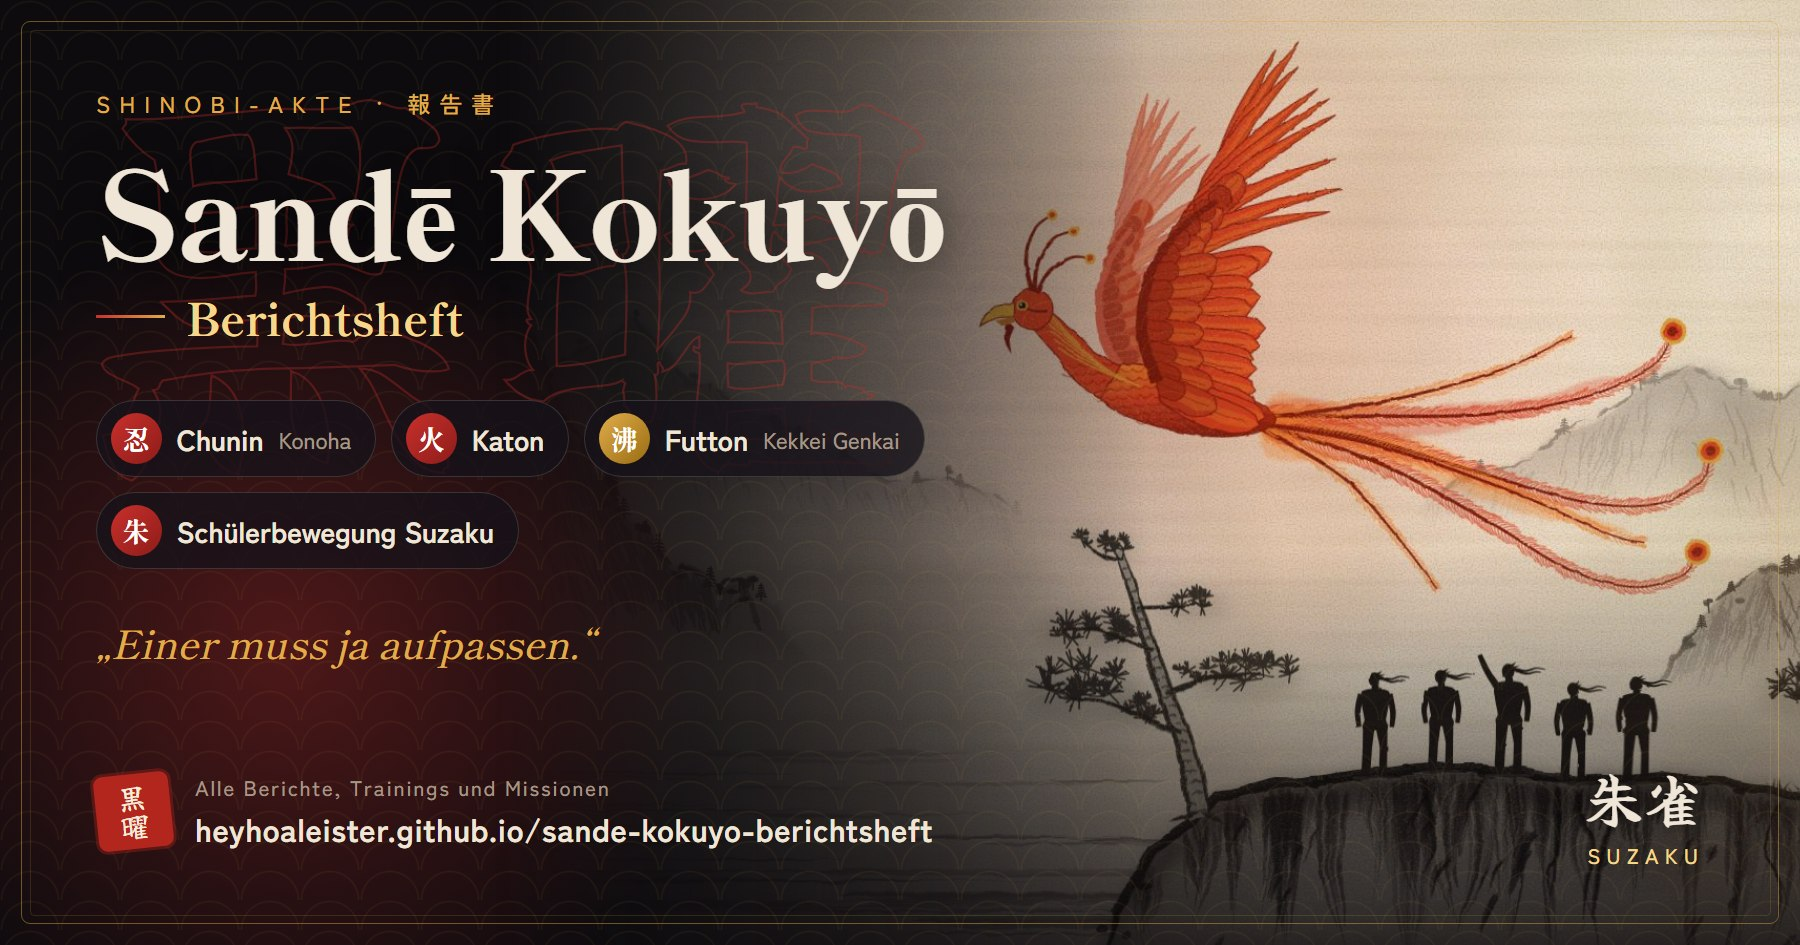
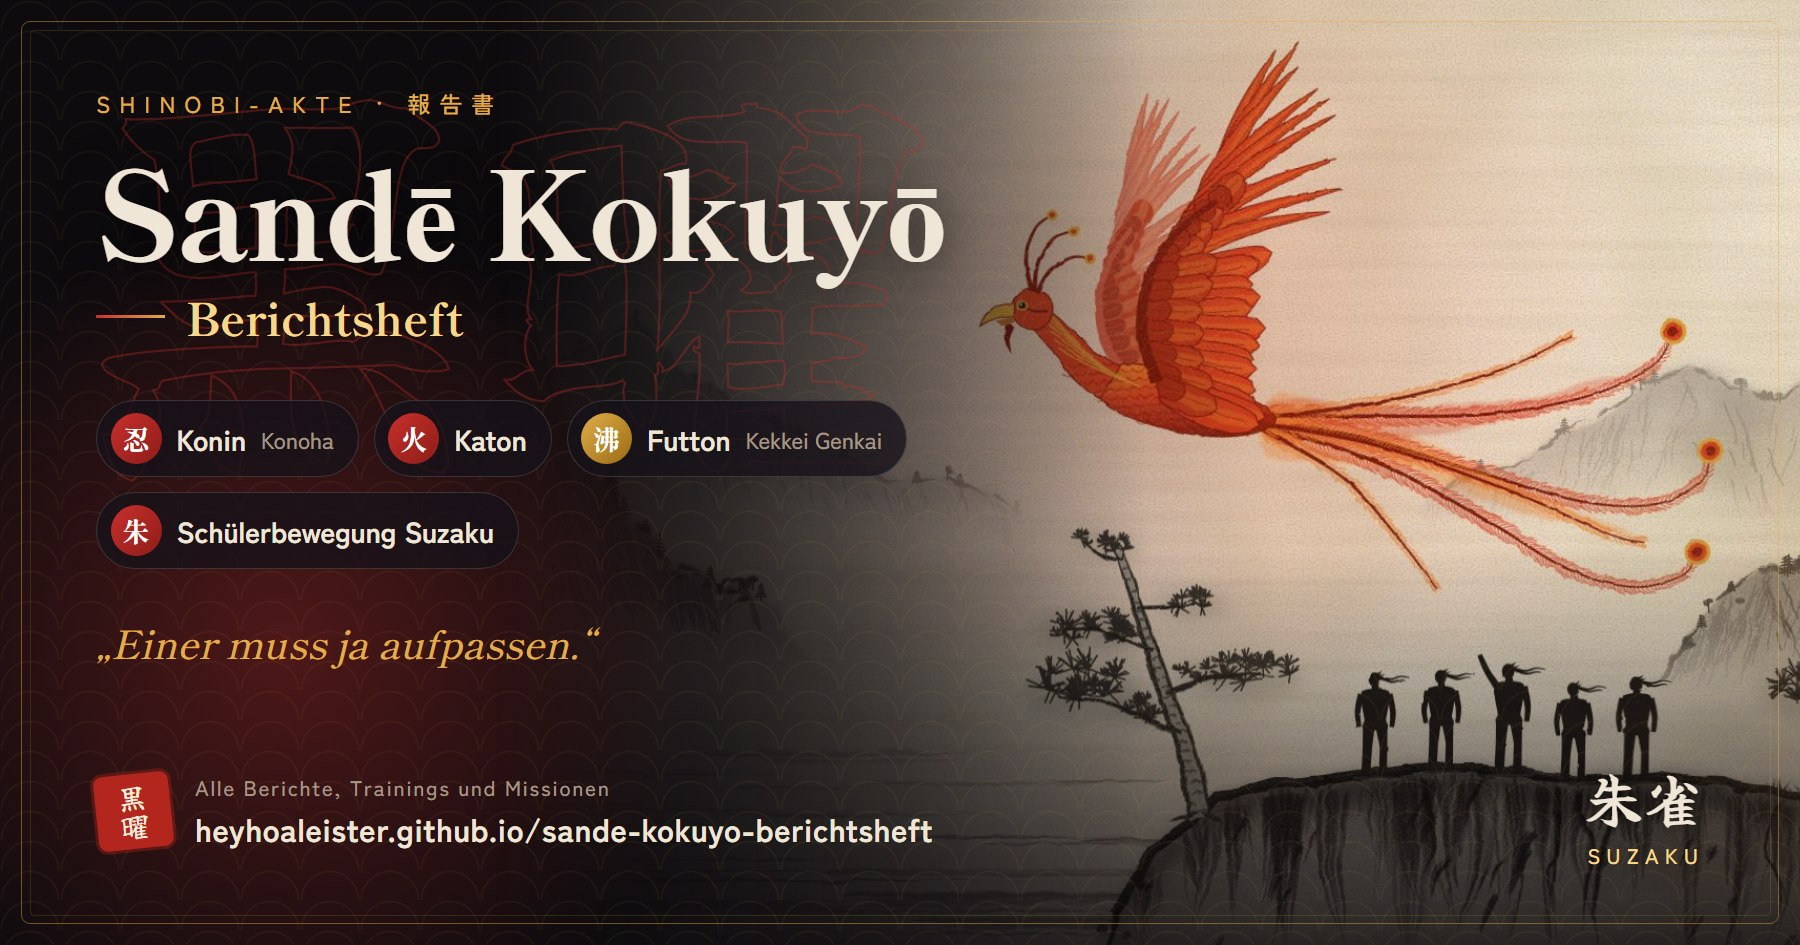
feat: Monat 18 bis 21 – krank, Rückkehr und Ernennung zum Konin
Monat 21 is a milestone with a new picture of the appointment by an
Akimichi on a training ground. Rank on the page, og description and
character card is now Konin.

Changed region(s): [[0.0933, 0.4296, 0.5289, 0.491]]

diff --git a/eintraege.js b/eintraege.js
@@ -6,7 +6,7 @@
 window.PROFIL = {
   "name": "Sandē Kokuyō",
   "dorf": "Konoha",
-  "rang": "Chunin",
+  "rang": "Konin",
   "clan": "Kein Clan – Bauernfamilie Kokuyō",
   "team": "Schülerbewegung Suzaku",
   "element": "Katon",
@@ -17,7 +17,7 @@ window.PROFIL = {
     "Sandē Kokuyō ist auf einem kleinen Bauernhof am Rand von Konoha aufgewachsen, als eines von mehreren Geschwistern. Die Kokuyō gehören keinem bekannten Clan an – einfache Leute, die vom Land leben und zusammenhalten. Jeder musste mit anpacken, und schon früh hat Sandē gelernt, dass eine Familie nur so stark ist wie derjenige, der für sie einsteht.",
     "Als Sandē noch klein war, kamen in einem Winter Räuber auf den Hof und wollten Vorräte und Vieh mitnehmen. Sein Vater wurde dabei verletzt. Eine Patrouille aus Konoha kam dazu und hat die Räuber vertrieben. Seitdem hat Sandē großen Respekt vor den Shinobi des Dorfes.",
     "Danach hat er angefangen, nachts am Tor des Hofes Wache zu halten. Meistens ist nichts passiert, aber er hat dabei gelernt, aufmerksam zu sein und ruhig zu bleiben.",
-    "Mit den Jahren hat sich gezeigt, dass er mit Chakra umgehen kann. Sein Element ist Katon, dazu kommt das Kekkei Genkai Futton. Er ist an die Akademie gegangen und ist heute Chunin. Was er später genau machen will, weiß er noch nicht. Fest steht nur, dass er seine Familie und das Dorf schützen möchte."
+    "Mit den Jahren hat sich gezeigt, dass er mit Chakra umgehen kann. Sein Element ist Katon, dazu kommt das Kekkei Genkai Futton. Er ist an die Akademie gegangen und ist heute Konin. Was er später genau machen will, weiß er noch nicht. Fest steht nur, dass er seine Familie und das Dorf schützen möchte."
   ],
   "ziele": [
     {
@@ -1016,5 +1016,77 @@ window.EINTRAEGE = [
       "Schülerbewegung",
       "Zusammenhalt"
     ]
+  },
+  {
+    "id": "t18-krank",
+    "datum": "2026-11-16",
+    "titel": "Mit Fieber im Bett",
+    "kategorie": "sonstiges",
+    "rang": "",
+    "ort": "Hof der Familie",
+    "text": "Zu Beginn des Monats hat mich eine Erkältung erwischt, und kurz darauf kam Fieber dazu. Ich habe es erst nicht ernst genommen und wollte trotzdem zum Training, aber nach ein paar Schritten war klar, dass das nichts wird.\nIch habe den Monat auf dem Hof der Familie im Bett verbracht. Viel mehr als schlafen und Tee trinken war nicht drin. Training, Akademie und Suzaku mussten warten.",
+    "tags": [
+      "Krank",
+      "Fieber",
+      "Hof"
+    ]
+  },
+  {
+    "id": "t19-krank",
+    "datum": "2026-11-17",
+    "titel": "Noch immer krank",
+    "kategorie": "sonstiges",
+    "rang": "",
+    "ort": "Hof der Familie",
+    "text": "Auch in diesem Monat war ich noch krank. Das Fieber ist langsam zurückgegangen, aber der Husten ist geblieben, und nach kurzer Zeit auf den Beinen war ich schon müde.\nIch bin deshalb weiter auf dem Hof geblieben. Ein Shinobi, der krank ins Training geht, hilft niemandem, also habe ich gewartet, bis ich wieder ganz gesund war.",
+    "tags": [
+      "Krank",
+      "Erholung",
+      "Hof"
+    ]
+  },
+  {
+    "id": "t20-wieder-da",
+    "datum": "2026-11-18",
+    "titel": "Wieder gesund und zurück im Dorf",
+    "kategorie": "alltag",
+    "rang": "",
+    "ort": "Konoha",
+    "text": "Zu Beginn des Monats war ich wieder gesund und bin zurück ins Dorf gegangen. Unterwegs habe ich mit ein paar Leuten geredet und gefragt, was ich in den zwei Monaten verpasst habe.",
+    "tags": [
+      "Rückkehr",
+      "Dorf"
+    ]
+  },
+  {
+    "id": "t20-training",
+    "datum": "2026-11-18",
+    "titel": "Langsam wieder ins Training eingestiegen",
+    "kategorie": "training",
+    "rang": "",
+    "ort": "Trainingsplatz",
+    "text": "Danach bin ich zum Trainingsplatz gegangen. Ich habe es ruhig angehen lassen: Laufen, Dehnen und leichte Taijutsu-Übungen. Nach zwei Monaten im Bett hat man gemerkt, dass mir die Ausdauer fehlt.\nFutton habe ich nur kurz ausprobiert, um zu sehen, ob die kurzen Chakra-Stöße aus der Schriftrolle noch sitzen. Die Wolke war nicht so dicht wie vor der Krankheit, aber das kommt wieder.",
+    "tags": [
+      "Training",
+      "Futton",
+      "Ausdauer"
+    ]
+  },
+  {
+    "id": "t21-konin",
+    "datum": "2026-11-19",
+    "titel": "Von einem Akimichi zum Konin ernannt",
+    "kategorie": "dienst",
+    "rang": "",
+    "ort": "Trainingsplatz",
+    "text": "In diesem Monat wurde ich von einem Akimichi zum Konin ernannt. Konin ist der nächste Rang nach Chunin.\nNach den zwei Monaten, in denen ich krank im Bett lag, hatte ich damit nicht gerechnet. Seit ich Chunin bin, ist viel passiert: die Mission im Feuerreich, die Gefechte mit Sunagakure und die Bastionskämpfe. Mit dem neuen Rang wird noch mehr von mir erwartet als vorher, und ich will dem gerecht werden.",
+    "tags": [
+      "Akimichi",
+      "Konin",
+      "Ernennung"
+    ],
+    "meilenstein": true,
+    "tusche": "bilder/tusche-monat21-konin.jpg",
+    "tuscheText": "Ernennung zum Konin durch einen Akimichi auf dem Trainingsplatz"
   }
 ];

diff --git a/index.html b/index.html
@@ -10,7 +10,7 @@
   <meta property="og:type" content="website">
   <meta property="og:site_name" content="Shinobi-Akte">
   <meta property="og:title" content="Berichtsheft – Sandē Kokuyō">
-  <meta property="og:description" content="Chunin aus Konoha · Katon und Futton · Schülerbewegung Suzaku. Alle Berichte, Trainings und Missionen.">
+  <meta property="og:description" content="Konin aus Konoha · Katon und Futton · Schülerbewegung Suzaku. Alle Berichte, Trainings und Missionen.">
   <meta property="og:url" content="https://heyhoaleister.github.io/sande-kokuyo-berichtsheft/">
   <meta property="og:image" content="https://heyhoaleister.github.io/sande-kokuyo-berichtsheft/bilder/karte.jpg">
   <meta property="og:image:width" content="1800">
